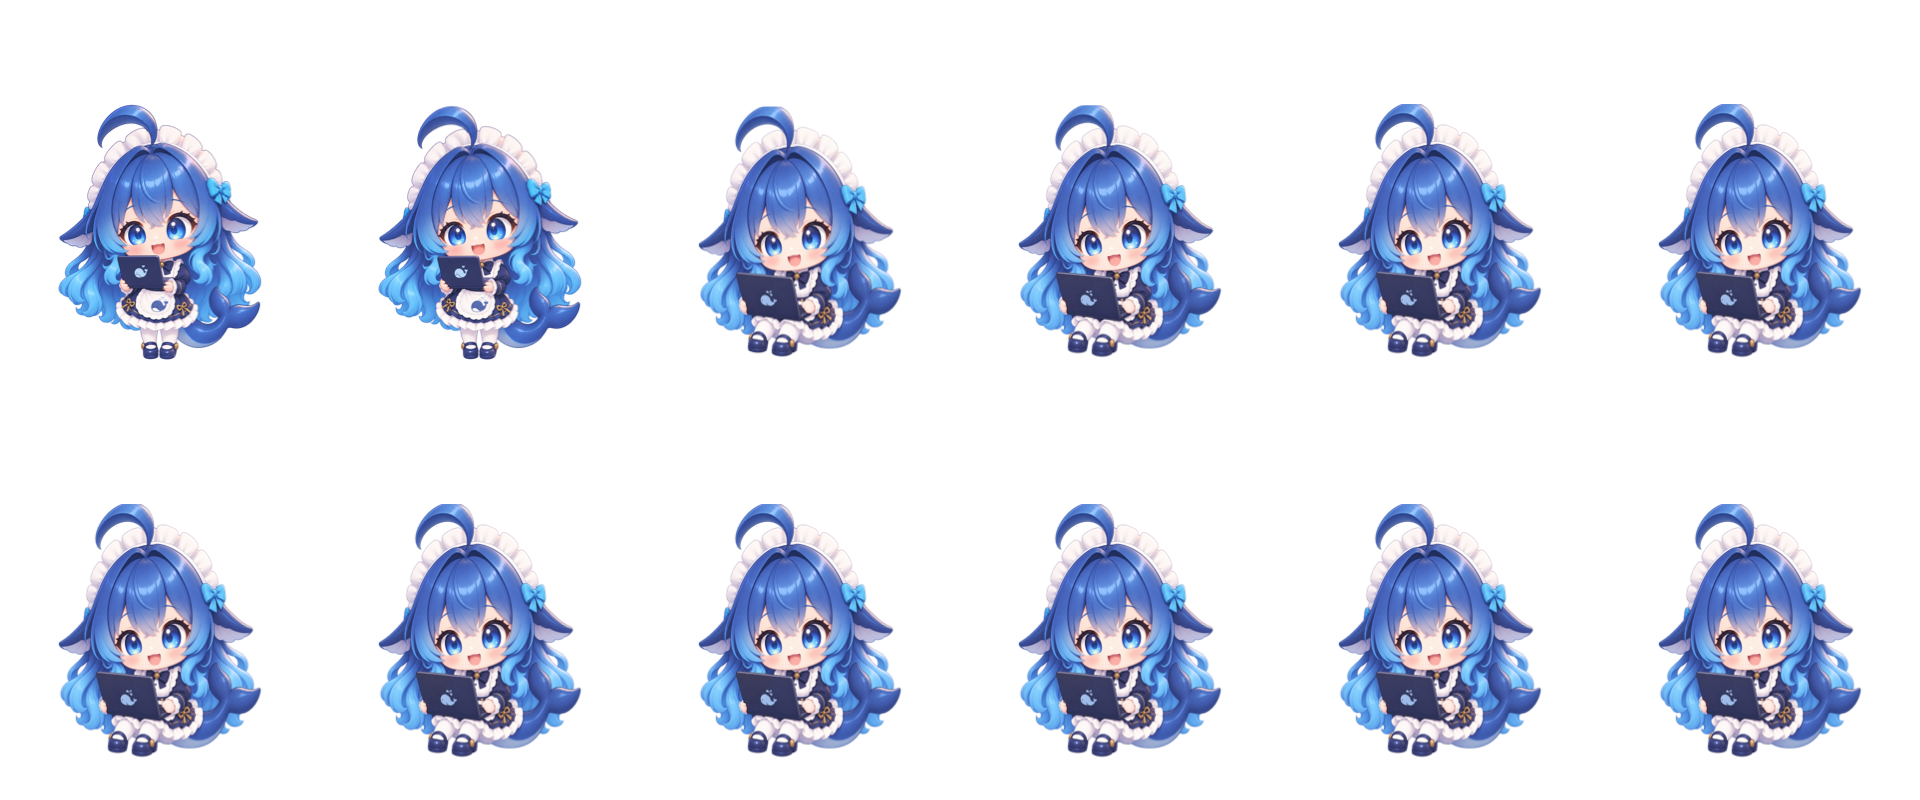
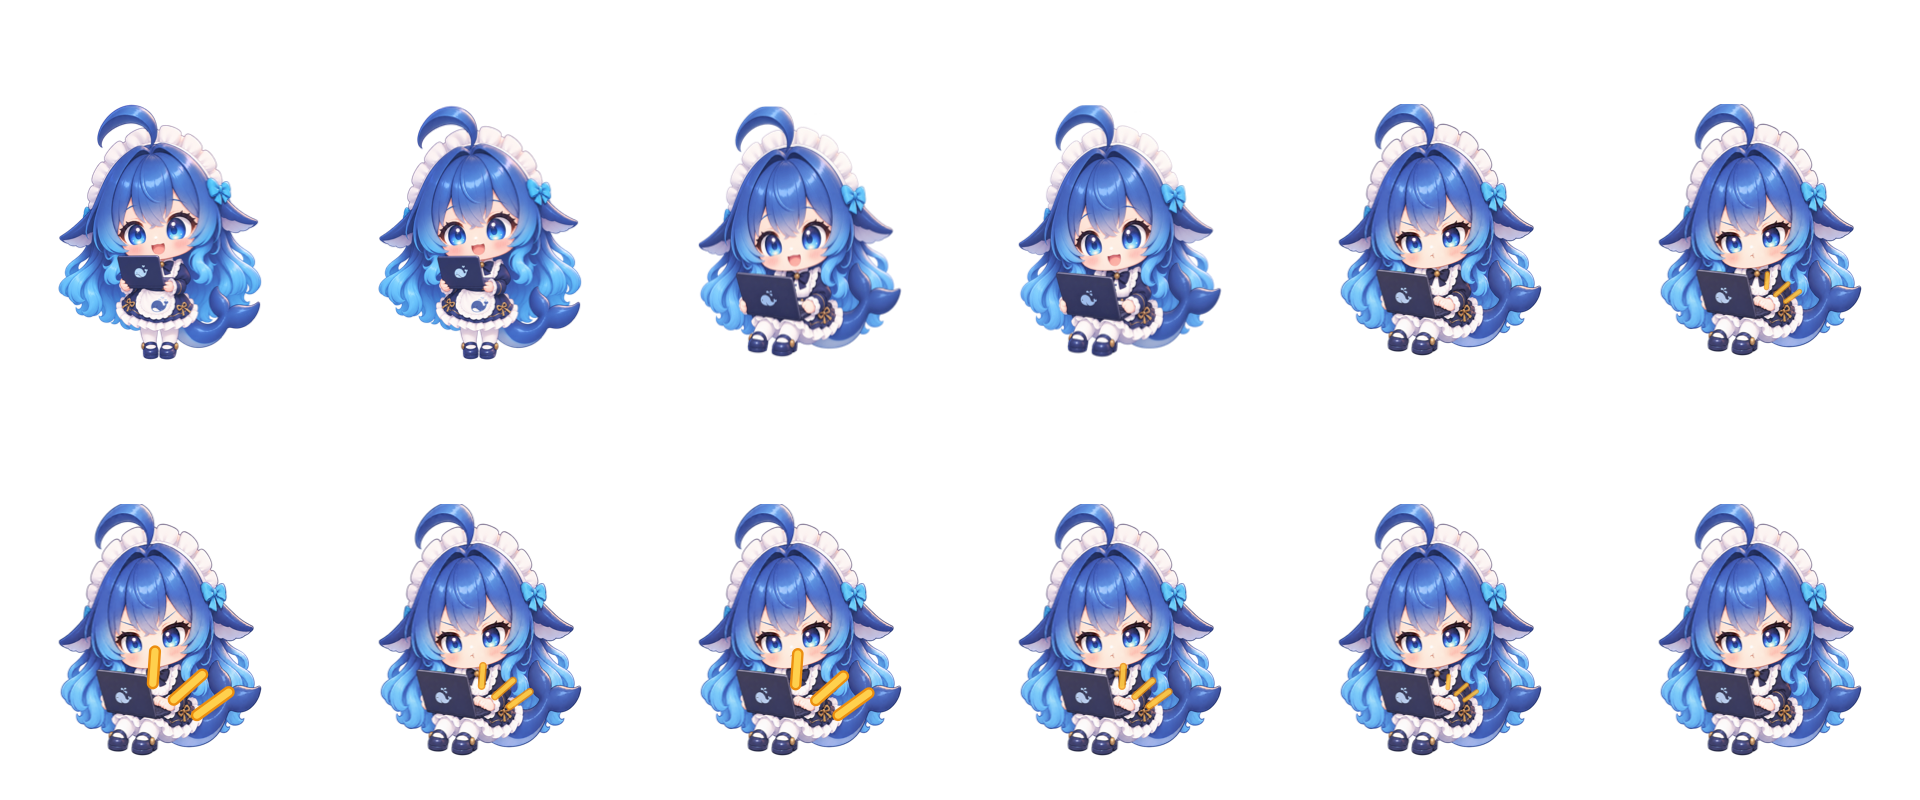
feat(pet): 接入第 3 版 work 素材 —— 敲击冲击线 + 专注表情，全部判据通过
第 3 版把运动做成三层叠加（上半身随敲击起伏 / 敲击冲击线 / 专注表情），
显示尺寸下从 8~14px 回到 100~672px，呈两拍节奏（峰值帧 7 / 9）。

不只验"过线"，逐项确认那两件事真做了：
- 冲击线：帧 8 相对帧 5 新增 770px，全部落在手/键盘区(x157-213,y262-310)，
  头/脸区 0px；均值 RGB(222,167,68) 橙黄，61% 为黄色像素。
- 克制：头顶以上(y<100) 变化 0px —— 没有拟声词气泡、没有标记。
- 表情：眼睛由大睁→收窄、嘴由张开→闭合；循环段内头部变化恒为 0
  （专注脸整段保持，没有自作多动）。
- 衔接不跳：显示尺寸下 4→5 变化 6443px，落在开场自身区间 2459~8645 之内。
- 姿势未动：轮廓左右 59-260、顶 104 与旧版一致，帽尖中心 x=130.0 不变。

开场帧 1-4 逐像素未动（与旧版 diff=0），接缝仍 0.00。

回归：素材验收 10/10 通过（4 条 error WARN 不变）、运行时 28/28、
状态推断 13/13、manifest.js 已同步。
docs/ 加一张返工前后对比图（按实际显示尺寸呈现）。

diff --git a/ASSET_SPEC.md b/ASSET_SPEC.md
@@ -110,7 +110,7 @@
 |---|---|---|---|---|
 | `idle.png` | 1920×1600 | 20（6×4） | 循环 1–20 | ✓ 20/20 姿态，接缝 0.00 |
 | `think.png` | 1920×800 | 12（6×2） | 循环 5–12 | ✓ 7/8 姿态，接缝 0.00 |
-| `work.png` | 1920×800 | 12（6×2） | 循环 5–12 | ⚠ **待二次返工**：接缝 0.00、姿态 8/8，但显示尺寸下每帧只变 8~14px（**FAIL**）|
+| `work.png` | 1920×800 | 12（6×2） | 循环 5–12 | ✓ **二次返工后通过**：接缝 0.00、姿态 8/8、显示尺寸 **100~672px**；含敲击冲击线 + 专注表情 |
 | `click.png` | 1920×800 | 8（6×2） | 一次性 | ✓ 首尾↔idle#1 均 0.00 |
 | `jump.png` | 1920×1200 | 14（6×3） | 一次性，`airborneFrame: 7` | ✓ 离地 005–009（脚底 323→271→332） |
 | `drag.png` | 1920×800 | 12（6×2） | 开场 1–4 + 循环 5–12 | ✓ 8/8 姿态；001 接地、002 起离地 |
@@ -120,7 +120,7 @@
 | `sleep.png` | 1920×800 | 12（6×2） | 开场 1–8 + 循环 9–12 | ✓ 循环段 4/4 姿态，接缝 0.00 |
 | `manifest.json` | — | — | schema **v5**，含全部 10 个剪辑 | ✓ |
 
-### 验收结论（`verify-assets.py`，9 支通过 / 1 支 FAIL）
+### 验收结论（`verify-assets.py`，**10 支全部通过**）
 
 | 项 | 结果 |
 |---|---|
@@ -130,7 +130,7 @@
 | 接地帧相对基准（y=358）偏离 | 无超限 |
 | **离地帧** | run 005/010、jump 005–009、drag 002–012、success 004–008 全部正确离地 |
 | **循环接缝** | 6 支有循环段的剪辑全部 **0.00** |
-| **循环段可见性**（显示尺寸 160×200，下限 40px） | 9 支通过；`work` **8~14px → FAIL，待返工** |
+| **循环段可见性**（显示尺寸 160×200，下限 40px） | **全部通过**；最低是 `work` 100px（余量 2.5×）|
 | **一次性剪辑首尾** | click / jump / success / error 首尾↔idle#1 全部 0.00 |
 | 运行时回归（`pet-runtime.test.html`） | **PASS=28 / FAIL=0**（无头实测） |
 | 状态推断回归（`pet_sources.test.py`） | **13/13 通过**（实测） |
@@ -138,17 +138,32 @@
 
 ### 已知短板
 
-- **`work` 循环段：先「动错部位」、再「几乎不动」—— 两次都没踩对（2026-09-23）**：
-  - **旧版**：整个人都在动（变化区域 **204×259px**、占画布 28.6%，竖直方向全包）
+- ~~**`work` 循环段：先「动错部位」、再「几乎不动」**~~ **已修复（2026-09-23 第 3 版）**：
+  三次迭代，最终版一条不落地通过全部判据。**保留完整过程，因为病根比结论有用。**
+  - **第 1 版**：整个人都在动（变化区域 **204×259px**、占画布 28.6%，竖直方向全包）
     → 被眼睛读成"站起来"，语义错。
-  - **返工版**：把运动收缩到**手部 125×44px、占比 0.37%**
+  - **第 2 版**：把运动收缩到**手部 125×44px、占比 0.37%**
     → 语义对了，但幅度做死了：缩到实际显示尺寸（160×200，画布 ×0.5）后每帧只剩
     **8~14 个屏幕像素**在动，低于人眼可察觉阈值，运行时**看起来就是完全静止**。
     （用户原话："这个东西完全不动了，很出戏"。）
+  - **第 3 版（当前）**：改为**三层叠加**——① 上半身随敲击起伏 ② 敲击冲击线 ③ 专注表情。
+    显示尺寸下回到 **100~672px**，呈两拍节奏（峰值在帧 7 / 9）。
+    **开场帧 1–4 逐像素未动、接缝 0.00 保持、轮廓完全一致（帽尖中心 x=130.0 不变）。**
+
+  **第 3 版验收细节（不只是"过线"，是逐项确认真做了那两件事）：**
+
+  | 检查项 | 方法 | 结果 |
+  |---|---|---|
+  | 冲击线是否存在且在正确位置 | 帧 8 相对帧 5 的新增像素 | 770px，**全部落在手/键盘区**（x157–213, y262–310），头/脸区 0px |
+  | 冲击线颜色 | 新增像素均值 | RGB(222,167,68) 橙黄，**61% 为黄色像素** |
+  | 是否加了拟声词气泡／标记 | 头顶以上（y<100）变化 | **0px** ✓ 克制住了 |
+  | 表情是否变专注 | 裁到眼/嘴放大对比 | 眼睛由大睁→**收窄**，嘴由张开→**闭合** ✓ |
+  | 表情是否过度 | 帧间头部变化 | 循环段内头部变化恒为 **0**（专注脸整段保持，不自作多动）|
+  | 开场→循环会不会跳 | 显示尺寸下 4→5 变化量 vs 开场自身 | 6443px，**落在开场自身区间 2459~8645 之内**，不突兀 |
 
   ⚠ **两次修正的病根是同一个：都在「幅度」上找答案，没在「运动模式」上找。**
 
-  **正确做法（2026-09-23 用户定调）—— 不要抠手指：**
+  **正确做法（2026-09-23 用户定调）—— 不抠手指，靠三层叠出「认真」：**
 
   > "她其实只要动就行，比如摇头晃脑，然后电脑随便晃一下也行……
   >  Q 版本来手就没有多仔细。"
@@ -156,7 +171,16 @@
   Q 版角色的辨识度来自**轮廓与头身比**，不来自手指。硬做"逐帧敲键盘"既难做、
   又留不住观感（返工版就是反证）。改用**头部 / 上半身的节奏性动作**表达"在忙"：
 
-  - **要**：头部点头摇头、上半身节奏性摆动、桌上道具（电脑 / 杯子）轻微位移
+  1. **动作**：上半身随敲击起伏（砸下去那一下，身体跟着往前压）、肩膀和头跟着微动。
+  2. **表情（本次重点，当前完全缺失）**：眼神收窄、**专注一点**即可 —— 轻微变化，不要夸张。
+  3. **效果（只要一样）**：敲击冲击线。
+
+  ⚠ **克制本身就是要求**：不要拟声词气泡、不要额外符号标记、不要夸张的表情。
+  用户原话："没必要为了体现她认真就恨不得写出来立个牌子说她认真" ——
+  **专注是演出来的，不是标出来的。**
+
+  > （12:03 补充）"我希望这个敲击键盘的感觉，就是她在敲键盘力气效果搞大一点的时候，
+  > 敲击就跟漫画一样…… 就是那种认真敲打键盘的感觉，她的表情也认真起来了那种。"
   - **不要**：手指尖几个像素的抖动 —— 做不细，也看不见
   - **不要**：整个轮廓竖直大位移 —— 会被读成"站起来 / 走开"
 
@@ -208,6 +232,11 @@
 - 整个人竖直位移 → 会被读成**起身 / 走开**，而不是"在工作"
 
 一句话：**要的是局部摆动，不是全身平移，也不是末端抖动。**
+
+> **另一条同样重要：表达要克制。** 状态的说服力来自"演得像"，不来自"标出来"。
+> 加拟声词气泡、加符号、加夸张表情，都会让角色显得在**提示**观众"我正在做这件事"，
+> 而不是在**做**这件事。用户 2026-09-23 的原话：
+> "没必要为了体现她认真就恨不得写出来立个牌子说她认真"。
 
 ### ⚠ 验收脚本的灵敏度（2026-09-23 修正，共两刀）
 

diff --git a/README.md b/README.md
@@ -208,13 +208,6 @@ pet_sources.test.py     状态推断回归测试（13 项）
 
 ## 已知问题
 
-- **`work`（坐着敲电脑）的循环段几乎看不出在动 —— 素材待返工。**
-  这一组把运动做到了手指级，缩到实际显示尺寸后每帧只剩 **8~14 个屏幕像素**
-  （对比 `idle` 的 900~4100px，差 **60 倍**），肉眼直接读成静止。
-  方向已定：改成**头部 / 上半身的节奏性摆动**、幅度放大约 3~5 倍，不做手指细节。
-  诊断见 `docs/pet-work-motion-diagnosis.png`，返工要求见 `docs/work-返工说明.md`。
-  → 因此 `verify-assets.py` 目前会报 **1 条 FAIL**（10 支里 9 支通过），这是**预期结果**，
-  不是脚本坏了。
 - `error` 剪辑的 12 帧里实际只有约 6 个不同姿态（前 3 帧完全相同），
   反应感偏弱，待返工
 - 宠物只支持 macOS（窗口宿主用了 Cocoa + WKWebView）
